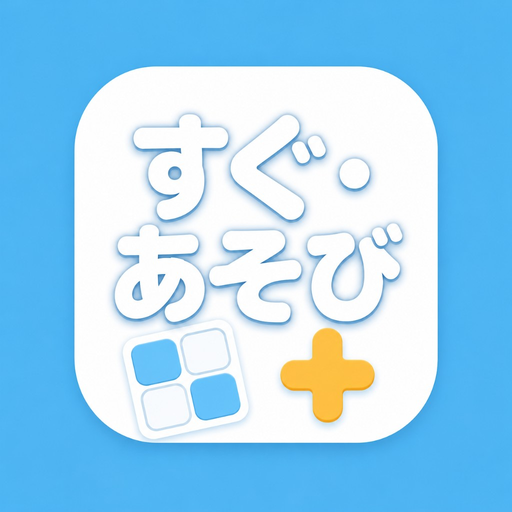
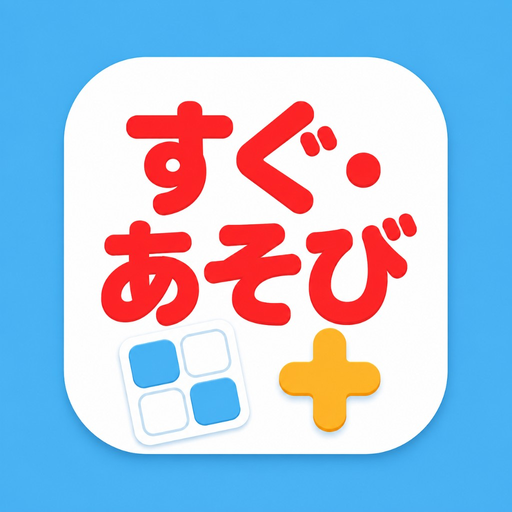
ホーム最上段を横長バナーにし、説明文を外す。

Changed region(s): [[0.125, 0.0938, 0.875, 0.9062]]

diff --git a/index.html b/index.html
@@ -38,19 +38,14 @@
   </head>
   <body>
     <main class="wrap">
-      <p class="site-name">sugu-asobu</p>
+      <h1 class="visually-hidden">すぐ・あそび</h1>
       <img
-        class="brand-thumb"
-        src="images/icon-180.png"
+        class="hero-banner"
+        src="images/banner.png"
         alt="すぐ・あそび"
-        width="72"
-        height="72"
+        width="1024"
+        height="237"
       />
-      <h1>すぐ・あそび</h1>
-      <p class="lead">
-        フラッシュ暗算・暗算・そろばん。今すぐ遊べます。<br />
-        ナンプレ・懸賞パズル・かんたん計算ゲームも、これから置けます。
-      </p>
       <div id="app-list" class="app-list"></div>
       <p class="note">
         アプリを入れなくていい。記録はこの端末に残ります。<br />

diff --git a/css/common.css b/css/common.css
@@ -55,7 +55,27 @@ button {
 .wrap {
   width: min(720px, 100%);
   margin: 0 auto;
-  padding: 20px 16px 40px;
+  padding: 16px 16px 40px;
+}
+
+.hero-banner {
+  display: block;
+  width: 100%;
+  height: auto;
+  margin: 0 0 20px;
+  border-radius: 16px;
+}
+
+.visually-hidden {
+  position: absolute;
+  width: 1px;
+  height: 1px;
+  padding: 0;
+  margin: -1px;
+  overflow: hidden;
+  clip: rect(0, 0, 0, 0);
+  white-space: nowrap;
+  border: 0;
 }
 
 .site-name {

diff --git a/LOG.md b/LOG.md
@@ -1,5 +1,14 @@
 # LOG
 
+## 2026-08-30 追記（8マスの見え方）
+
+### やったこと
+- 8マス問題の「5マスごと太い線」をやめた
+- 8列でも横スクロールせず、画面の幅に収まるようにした
+
+### 次にやること
+- 画面を見てもらい、押しやすさを確認する
+
 ## 2026-08-30 追記（用意が残っていた理由）
 
 - 直していたのは隣の `crash-anzan`。実際に開いていたのは `sugu-asobu`（すぐ・あそび）
@@ -121,3 +130,9 @@
 - 開く住所: https://ponnmayo15-a11y.github.io/sugu-asobu-app-public/
 - QRも新しい住所に作り直した
 - ウェブアプリのサムネに「すぐ・あそび」の絵を設定（タブ・ホーム画面・リンクの大きい絵）
+- ホーム最上段を横長バナーに。説明文（フラッシュ暗算…これから置けます）は削除。アイコンは赤い字の新版
+
+### 追記（かんたん計算・ひっ算）
+- たてに並ぶ数字を、桁そろえ＋下の横線のひっ算の形にした
+- 答えは線の下には書かない（4択のまま）
+- 数字の行は 2〜7 行まで選べる（前は4行まで）
